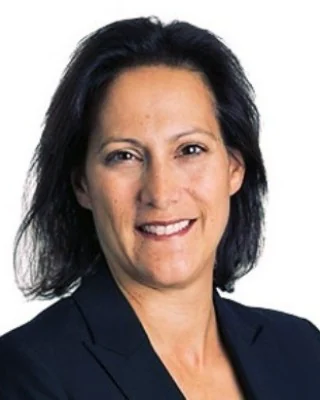
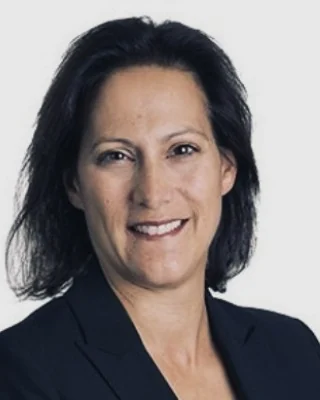
feat: regrade founder portraits to a matched editorial set
Geometry now drives off measured eye positions rather than a centre crop.
Each 4:5 box is sized so the eyes span a common fraction of frame width,
then positioned so the eye line lands at 37% of frame height — face scale
and eye line are what make three portraits read as one set.

Grading moves out of CSS and into the derivatives, per image: muting,
softened contrast and a navy shadow cool, each tuned by eye because the
three were shot under very different light and identical numbers did not
match them. A skin-hue mask holds complexions back from the desaturation
so they stay natural. Katrina's crimson is pulled down and Suzanne's
studio backdrop darkened, so neither breaks the row.

tools/founders.py carries the recipe so the derivatives are reproducible.
Originals are untouched; no retouching or generative editing.

CSS keeps only the final uniform navy veil, raised to 12%, so overall
strength stays tunable without regenerating.

Known limit: Suzanne's 400x400 source cannot reach the same framing. Her
eye line sits at 39% rather than 37% and there is no torso in the frame to
include. A larger original is the only fix.

diff --git a/css/brand-tokens.css b/css/brand-tokens.css
@@ -51,13 +51,14 @@
   --lattice-error:           #B3261E;
   --lattice-error-on-navy:   #F3B0AB;
 
-  /* Founder portraits. The three headshots come from three photographers,
-     with different lighting and backgrounds. This wash is what makes them
-     read as one set — a light navy veil plus a modest desaturation, applied
-     in CSS so the originals stay untouched and the strength stays tunable.
-     Keep it subtle: past roughly 0.14 the skin tones start to go grey. */
-  --lattice-portrait-wash:   rgba(11, 27, 58, 0.08);
-  --lattice-portrait-filter: saturate(0.68) contrast(1.03);
+  /* Founder portraits. The three headshots come from three photographers
+     under very different light, so the muting, contrast and shadow-cooling
+     are graded per image and baked into the WebP derivatives — identical
+     numbers across all three did not produce a matching result. What stays
+     here is the final uniform veil over the finished set, so its strength
+     can still be tuned without regenerating anything. Past roughly 0.16 the
+     complexions start to go grey. */
+  --lattice-portrait-wash:   rgba(11, 27, 58, 0.12);
 
   /* ---- Type ---------------------------------------------------- */
   /* Two families only. DM Sans was a third in the previous build.

diff --git a/index.html b/index.html
@@ -295,7 +295,7 @@
           </div>
           <div class="founder">
             <div class="founder-photo">
-              <img src="assets/founders/katrina-c-foster.webp" width="800" height="1000"
+              <img src="assets/founders/katrina-c-foster.webp" width="775" height="968"
                    loading="lazy" decoding="async" alt="Portrait of Katrina C. Foster" />
             </div>
             <h3 class="founder-name">Katrina C. Foster</h3>

diff --git a/css/styles.css b/css/styles.css
@@ -692,12 +692,13 @@ a:hover { color: var(--lattice-ink-navy); }
   background: var(--lattice-mist-grey);
   margin-bottom: 0.55rem;
 }
+/* No filter here: the muting, contrast and shadow-cooling are graded into
+   the files themselves, per image. See tools/founders.py. */
 .founder-photo img {
   display: block;
   width: 100%;
   height: 100%;
   object-fit: cover;
-  filter: var(--lattice-portrait-filter);
 }
 .founder-photo::after {
   content: "";

diff --git a/tools/founders.py b/tools/founders.py
@@ -1,0 +1,119 @@
+"""Build the founder portrait derivatives.
+
+Two jobs. First, geometry: crop each source so the eye line sits at a
+common fraction of frame height and faces land at a comparable scale,
+measured from eye positions read off each original. Second, grade: a muted,
+slightly soft treatment with shadows cooled toward ink navy — tuned per
+image, because these three were shot under very different light and
+identical numbers do not produce a matching result.
+
+Originals are never written to. Run:  python3 founders.py <dest-dir>
+"""
+import sys
+from PIL import Image, ImageEnhance, ImageChops
+
+OUT_W, OUT_H = 800, 1000
+RATIO = OUT_W / OUT_H            # 0.8  (4:5 portrait)
+TARGET_EYE_Y = 0.37              # eye line, fraction of frame height
+TARGET_IOD = 0.197               # eye separation, fraction of frame width
+NAVY = (11, 27, 58)              # --lattice-ink-navy
+
+# eye_y / eye_l / eye_r are fractions of the SOURCE dimensions, read off a
+# percentage grid laid over each original.
+#
+# brightness : <1 pulls an over-bright studio backdrop back toward the others.
+# sat        : colour multiplier (1.0 = untouched). ~0.70 => -30% saturation.
+# contrast   : <1 softens. Suzanne's studio light is hardest, so she takes most.
+# shadow_k   : strength of the navy shadow cool.
+# skin_keep  : how much of the original colour is restored over skin hues,
+#              so desaturation does not turn complexions grey.
+JOBS = [
+    dict(name="jill-earthy.webp",
+         src="/Users/katrinacarroll-foster/Documents/The Lattice/Brand/Photos/Jill-Earthy-Speaker-Headshot-2024.jpg",
+         eye_y=0.235, eye_l=0.320, eye_r=0.470,
+         sat=0.66, contrast=0.97, shadow_k=0.16, skin_keep=0.55, brightness=1.00),
+    dict(name="katrina-c-foster.webp",
+         src="/Users/katrinacarroll-foster/Documents/Katrina - Professional/Headshots/New HeadShot.png",
+         eye_y=0.324, eye_l=0.457, eye_r=0.593,
+         sat=0.62, contrast=0.97, shadow_k=0.14, skin_keep=0.58, brightness=1.00),
+    dict(name="suzanne-gill.webp",
+         src="/Users/katrinacarroll-foster/Documents/The Lattice/Brand/Photos/Suzanne Gill.jpeg",
+         eye_y=0.390, eye_l=0.440, eye_r=0.600,
+         sat=0.74, contrast=0.95, shadow_k=0.22, skin_keep=0.60, brightness=0.93),
+]
+
+
+def crop_box(W, H, eye_y_f, eye_l, eye_r):
+    """4:5 box sized so the eyes span TARGET_IOD of the width and sit at
+    TARGET_EYE_Y down the height. Face scale is what makes the set read as
+    one, so it sizes the box; the eye line is then placed inside it. Both
+    clamp to whatever the source actually contains."""
+    eye_y = eye_y_f * H
+    eye_cx = (eye_l + eye_r) / 2 * W
+
+    cw = (eye_r - eye_l) * W / TARGET_IOD   # size for a matched face scale
+    ch = cw / RATIO
+    if cw > W:                          # too wide for the source
+        cw, ch = W, W / RATIO
+    if ch > H:                          # too tall for the source
+        ch, cw = H, H * RATIO
+    cw, ch = int(round(cw)), int(round(ch))
+
+    top = int(round(eye_y - TARGET_EYE_Y * ch))
+    top = max(0, min(top, H - ch))
+    left = int(round(eye_cx - cw / 2))
+    left = max(0, min(left, W - cw))
+    return left, top, cw, ch
+
+
+def skin_mask(im):
+    """Rough mask over skin-like hues, used to hold complexions back from
+    the desaturation. Hue band plus a moderate-saturation gate, so hair and
+    warm backgrounds are largely excluded."""
+    h, s, v = im.convert("HSV").split()
+    hue = h.point(lambda p: 255 if 2 <= p <= 32 else 0)
+    sat = s.point(lambda p: 255 if 28 <= p <= 195 else 0)
+    val = v.point(lambda p: 255 if p >= 55 else 0)
+    return ImageChops.multiply(ImageChops.multiply(hue, sat), val)
+
+
+def cool_shadows(im, k):
+    """Pull the darks toward ink navy. The squared term keeps midtones and
+    highlights almost untouched, so only shadow areas take the cast."""
+    lum = im.convert("L")
+    mask = lum.point(lambda p: int(k * 255 * ((1 - p / 255.0) ** 2)))
+    return Image.composite(Image.new("RGB", im.size, NAVY), im, mask)
+
+
+dest = sys.argv[1]
+for j in JOBS:
+    im = Image.open(j["src"]).convert("RGB")
+    W, H = im.size
+    left, top, cw, ch = crop_box(W, H, j["eye_y"], j["eye_l"], j["eye_r"])
+    im = im.crop((left, top, left + cw, top + ch))
+
+    # Never enlarge: a soft 2.5x upscale looks worse than a smaller sharp file.
+    tw, th = (OUT_W, OUT_H) if cw >= OUT_W else (cw, ch)
+    if (tw, th) != im.size:
+        im = im.resize((tw, th), Image.LANCZOS)
+
+    if j["brightness"] != 1.0:
+        im = ImageEnhance.Brightness(im).enhance(j["brightness"])
+    im = ImageEnhance.Contrast(im).enhance(j["contrast"])
+    muted = ImageEnhance.Color(im).enhance(j["sat"])
+    keep = skin_mask(im).point(lambda p: int(p * j["skin_keep"] / 255) if p else 0)
+    im = Image.composite(im, muted, keep)
+    im = cool_shadows(im, j["shadow_k"])
+
+    path = f"{dest}/{j['name']}"
+    for q in (86, 80, 74, 68):
+        im.save(path, "WEBP", quality=q, method=6)
+        import os
+        if os.path.getsize(path) <= 200_000:
+            break
+    import os
+    eye_actual = (j["eye_y"] * H - top) / ch
+    iod = (j["eye_r"] - j["eye_l"]) * W * (tw / cw)
+    print(f"{j['name']:24} crop {cw}x{ch}@({left},{top}) -> {tw}x{th}  "
+          f"eyes {eye_actual*100:.0f}%  eye-dist {iod:.0f}px  "
+          f"{os.path.getsize(path)/1024:.0f}KB")
